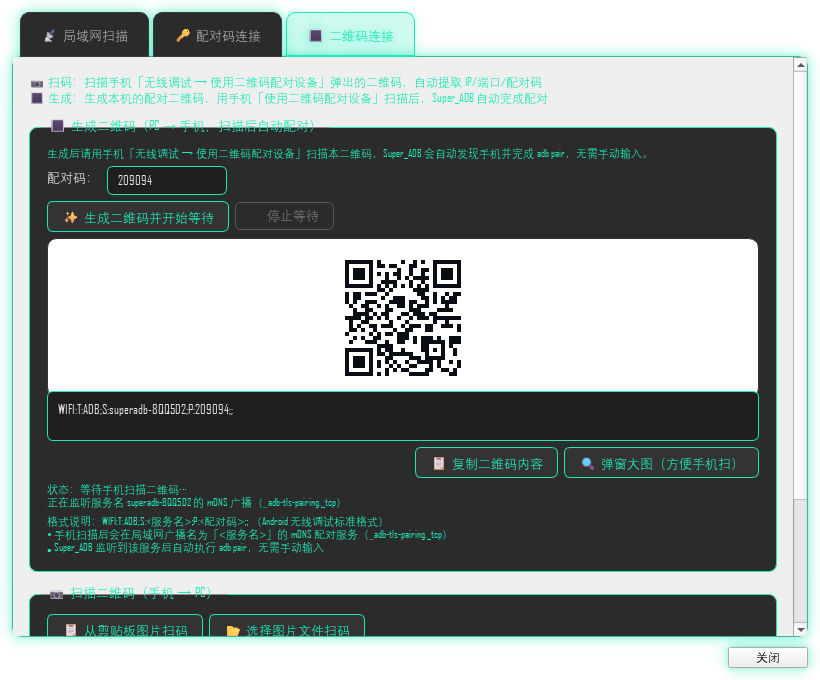
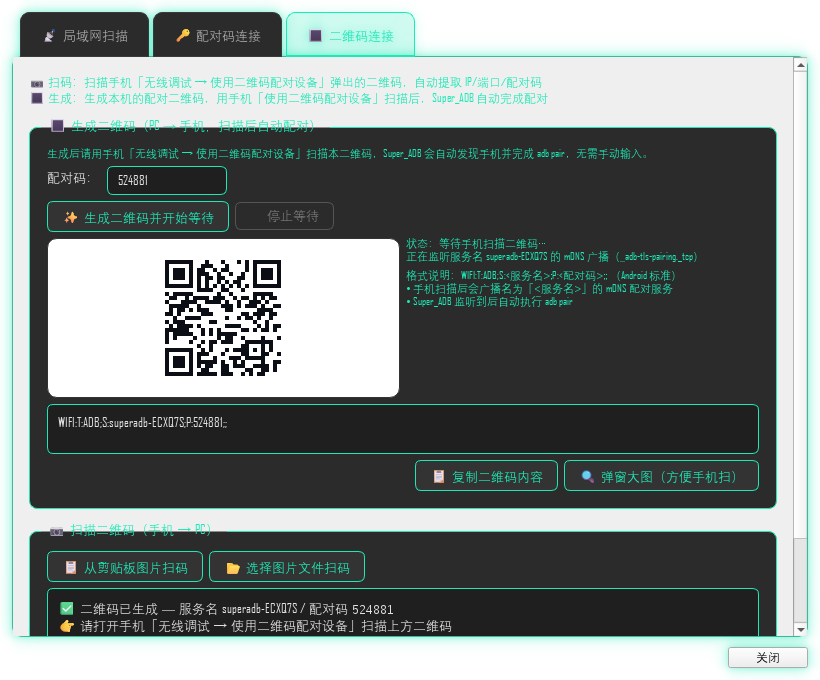
refactor(qr): 状态说明移到二维码右侧，节省纵向空间
- 生成二维码区域改为左右布局：左侧二维码预览，右侧状态 + 格式说明
- 精简格式说明文字，减少行数
- payload/复制按钮/弹窗大图仍保持在下方
- 同步更新 feature_intro 截图

diff --git a/Super_ADB_Main/dialogs/qr_connect_page.py b/Super_ADB_Main/dialogs/qr_connect_page.py
@@ -239,7 +239,9 @@ class QrConnectPage(QWidget):
         gh.addStretch()
         gv.addLayout(gh)
 
-        # 二维码预览区
+        # 二维码预览 + 状态/说明 左右排列，节省纵向空间
+        qr_row = QHBoxLayout()
+
         self.qr_preview_label = QLabel()
         self.qr_preview_label.setAlignment(Qt.AlignCenter)
         self.qr_preview_label.setMinimumSize(160, 160)
@@ -247,7 +249,27 @@ class QrConnectPage(QWidget):
         self.qr_preview_label.setStyleSheet(
             "background:#ffffff; border-radius:10px; border:1px solid #333;")
         self.qr_preview_label.setText("二维码预览区\n（点击上方按钮生成）")
-        gv.addWidget(self.qr_preview_label, 1)
+        qr_row.addWidget(self.qr_preview_label, 1)
+
+        info_col = QVBoxLayout()
+        info_col.setSpacing(6)
+
+        self.wait_status = QLabel("状态：待生成二维码")
+        self.wait_status.setWordWrap(True)
+        self.wait_status.setStyleSheet(f"color:{ACCENT}; font-size:11px;")
+        info_col.addWidget(self.wait_status)
+
+        note = QLabel(
+            "格式说明：WIFI:T:ADB;S:<服务名>;P:<配对码>;; （Android 标准）\n"
+            "• 手机扫描后会广播名为「<服务名>」的 mDNS 配对服务\n"
+            "• Super_ADB 监听到后自动执行 adb pair")
+        note.setWordWrap(True)
+        note.setStyleSheet(f"color:{ACCENT}; font-size:11px;")
+        info_col.addWidget(note)
+        info_col.addStretch()
+
+        qr_row.addLayout(info_col, 1)
+        gv.addLayout(qr_row, 1)
 
         # payload 原文 + 复制
         self.qr_payload_text = QTextEdit()
@@ -268,21 +290,6 @@ class QrConnectPage(QWidget):
         self.btn_popup_qr.clicked.connect(self._popup_qr)
         gcopy.addWidget(self.btn_popup_qr)
         gv.addLayout(gcopy)
-
-        # 等待状态行
-        self.wait_status = QLabel("状态：待生成二维码")
-        self.wait_status.setWordWrap(True)
-        self.wait_status.setStyleSheet(f"color:{ACCENT}; font-size:11px;")
-        gv.addWidget(self.wait_status)
-
-        # 说明
-        note = QLabel(
-            "格式说明：WIFI:T:ADB;S:<服务名>;P:<配对码>;; （Android 无线调试标准格式）\n"
-            "• 手机扫描后会在局域网广播名为「<服务名>」的 mDNS 配对服务（_adb-tls-pairing._tcp）\n"
-            "• Super_ADB 监听到该服务后自动执行 adb pair，无需手动输入")
-        note.setWordWrap(True)
-        note.setStyleSheet(f"color:{ACCENT}; font-size:11px;")
-        gv.addWidget(note)
 
         root.addWidget(gen_g, 1)
 
